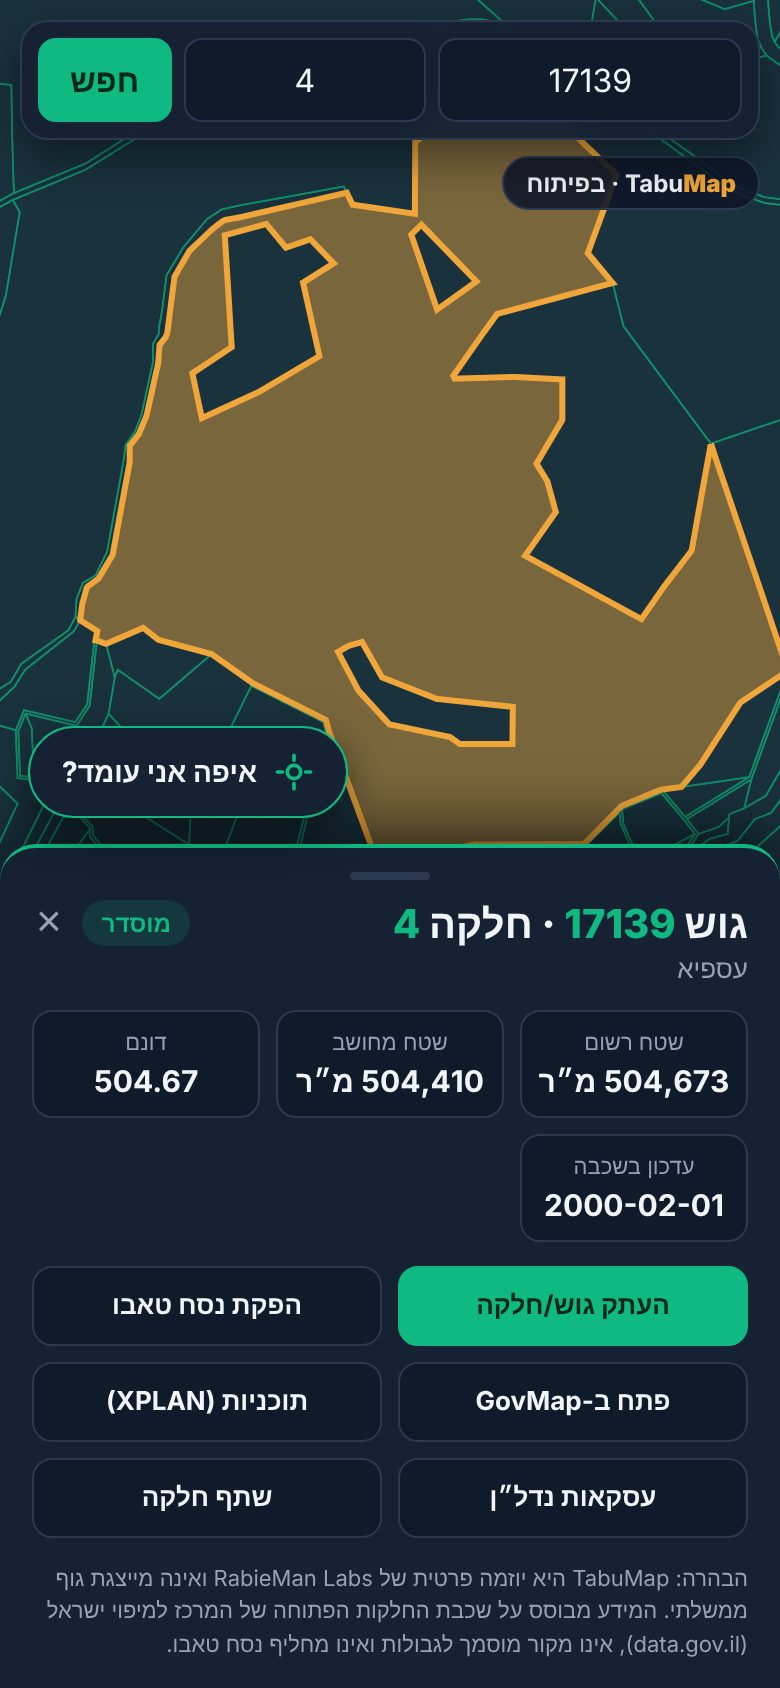
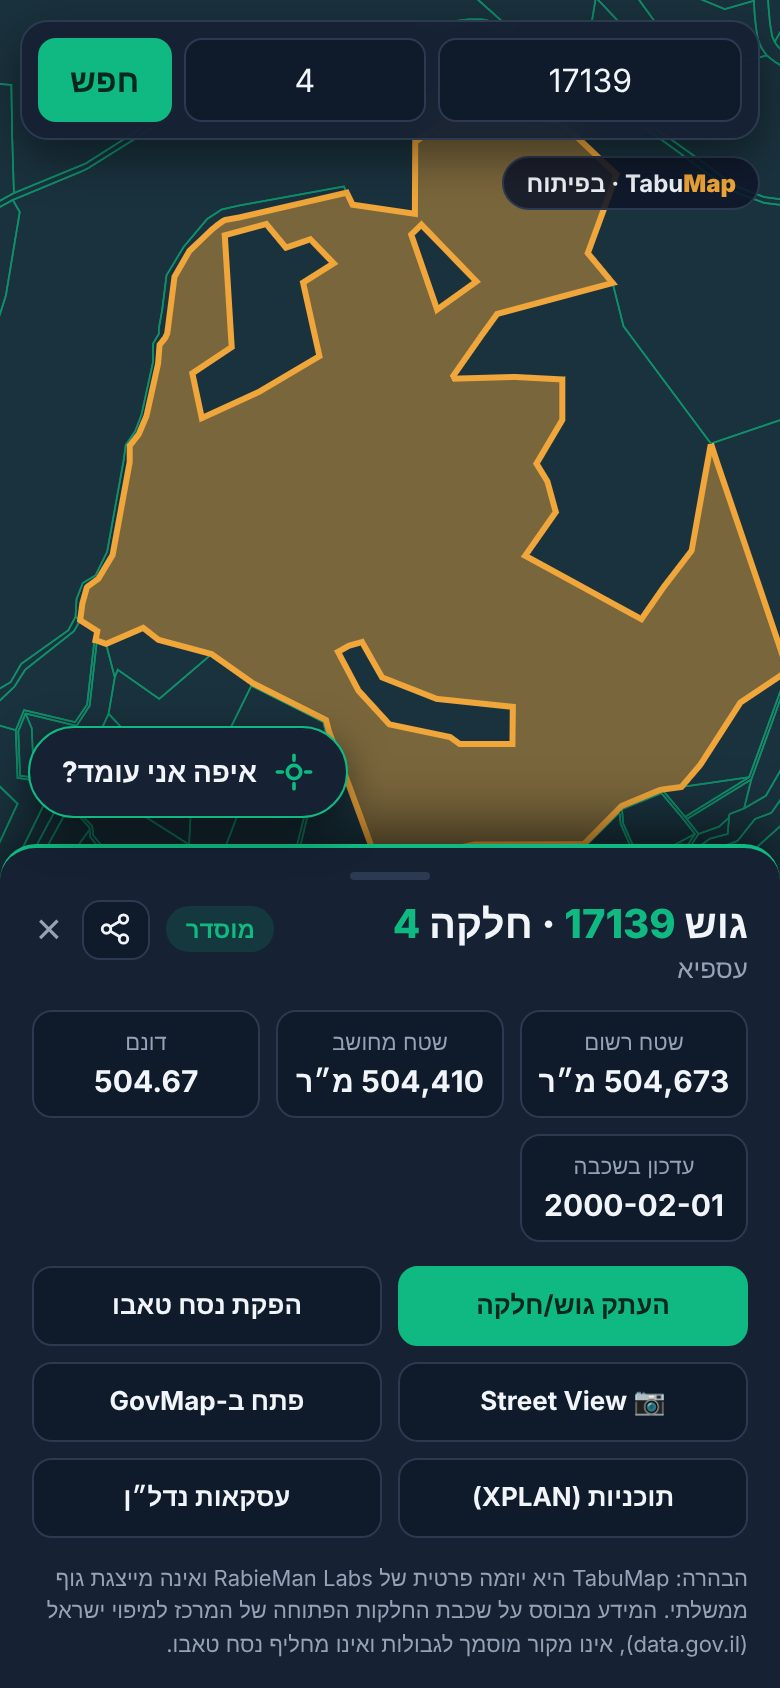
Landing: Street View feature card (he/en), privacy note on the Street View link, refreshed screenshots
Claude-Session: https://claude.ai/code/session_01VLMtTQgPnMJgmWQRScFxBP

diff --git a/privacy.html b/privacy.html
@@ -40,7 +40,7 @@ a{color:#9ccbff}small{color:#8b96a3}[dir=ltr]{text-align:left}
 <h2>מה נשמר במכשיר</h2>
 <p>העדפות (כמו שפה ותצוגת מפה) וחלקות ששמרתם נשמרות בזיכרון המקומי של המכשיר בלבד, ולא נשלחות אלינו. מחיקת האפליקציה או נתוני הדפדפן מוחקת אותן.</p>
 <h2>פניות לשירותים חיצוניים</h2>
-<p>נתוני החלקות נטענים מהאתר שלנו, המתארח ב-GitHub Pages. מפת הרקע נטענת מ-OpenFreeMap, ותצלומי הלוויין מ-Esri. כמו בכל אפליקציית מפות, השירותים האלה מקבלים את כתובת ה-IP ואת אזור המפה המוצג, בכפוף למדיניות שלהם. איננו מקבלים ואיננו שומרים את הפניות האלה. קישורים להפקת נסח טאבו, ל-GovMap, ל-XPLAN ולאתר הנדל״ן הממשלתי נפתחים באתרים שלהם.</p>
+<p>נתוני החלקות נטענים מהאתר שלנו, המתארח ב-GitHub Pages. מפת הרקע נטענת מ-OpenFreeMap, ותצלומי הלוויין מ-Esri. כמו בכל אפליקציית מפות, השירותים האלה מקבלים את כתובת ה-IP ואת אזור המפה המוצג, בכפוף למדיניות שלהם. איננו מקבלים ואיננו שומרים את הפניות האלה. קישורים להפקת נסח טאבו, ל-GovMap, ל-XPLAN, לאתר הנדל״ן הממשלתי ול-Google Street View נפתחים באתרים או באפליקציות שלהם. בלחיצה על Street View נשלחת לגוגל רק נקודת המפה שבחרתם, כדי לפתוח את התמונה.</p>
 <h2>תכונות עתידיות</h2>
 <p>לפני שיתווסף מפענח נסחי טאבו, המדיניות תעודכן ותפרט בדיוק מה נשלח לעיבוד, לאן, ומה לא נשמר.</p>
 <h2>שמירה ומחיקה של מידע</h2>
@@ -61,7 +61,7 @@ a{color:#9ccbff}small{color:#8b96a3}[dir=ltr]{text-align:left}
 <h2>What stays on your device</h2>
 <p>Preferences (such as language and map view) and parcels you save are stored only in the device's local storage and are never sent to us. Uninstalling the app or clearing browser data deletes them.</p>
 <h2>External services</h2>
-<p>Parcel data is loaded from our site, hosted on GitHub Pages. The background map comes from OpenFreeMap and satellite imagery from Esri. As with any map app, these services receive your IP address and the map area shown, under their own policies. We do not receive or store these requests. Links to the land registry extract service, GovMap, XPLAN and the government real-estate site open on those sites.</p>
+<p>Parcel data is loaded from our site, hosted on GitHub Pages. The background map comes from OpenFreeMap and satellite imagery from Esri. As with any map app, these services receive your IP address and the map area shown, under their own policies. We do not receive or store these requests. Links to the land registry extract service, GovMap, XPLAN, the government real-estate site and Google Street View open on those sites or apps. Tapping Street View sends Google only the map point you picked, to open the imagery.</p>
 <h2>Future features</h2>
 <p>Before a Tabu extract analyzer is added, this policy will be updated to state exactly what is sent for processing, where, and what is not kept.</p>
 <h2>Data retention and deletion</h2>

diff --git a/index.html b/index.html
@@ -55,6 +55,7 @@ footer{border-top:1px solid var(--line);margin-top:40px;padding-top:16px;color:v
  <div class="f"><span>🔎</span><b>חיפוש גוש וחלקה</b><p>מקלידים גוש, או גוש וחלקה, ומגיעים ישר לחלקה על המפה. חלקה שבוטלה או אוחדה מסומנת ככזו.</p></div>
  <div class="f"><span>📐</span><b>כרטיס חלקה</b><p>שטח רשום מול שטח מחושב מהמפה, דונמים, סטטוס הסדר ותאריך עדכון, עם קישורים להפקת נסח טאבו, ל-GovMap ולתוכניות.</p></div>
  <div class="f"><span>🛰</span><b>מפה ולוויין</b><p>גבולות החלקות על מפת רחובות או על תצלום לוויין, ושיתוף חלקה בקישור.</p></div>
+ <div class="f"><span>📷</span><b>Street View</b><p>כפתור בכרטיס החלקה פותח את Google Street View בדיוק בנקודה שבחרתם, כדי לראות את המגרש מהרחוב.</p></div>
  <div class="f soon"><span>🏗</span><b>תוכניות בנייה</b><p>התוכניות שחלות על כל חלקה, עם הסבר קצר על הייעוד.</p></div>
  <div class="f soon"><span>📄</span><b>מפענח נסח טאבו</b><p>משתפים את ה-PDF של הנסח ומקבלים סיכום ברור: בעלים, משכנתאות, הערות אזהרה ועיקולים.</p></div>
 </div>
@@ -68,6 +69,7 @@ footer{border-top:1px solid var(--line);margin-top:40px;padding-top:16px;color:v
   <div class="f"><span>🔎</span><b>Block &amp; parcel search</b><p>Type a block, or a block and parcel, and jump straight to it on the map. Cancelled or merged parcels are flagged.</p></div>
   <div class="f"><span>📐</span><b>Parcel card</b><p>Registered vs. measured area, dunams, settlement status and update date, with links to the land registry extract, GovMap and zoning plans.</p></div>
   <div class="f"><span>🛰</span><b>Map &amp; satellite</b><p>Parcel boundaries over a street map or satellite imagery, and share a parcel by link.</p></div>
+  <div class="f"><span>📷</span><b>Street View</b><p>A button on the parcel card opens Google Street View right at the point you picked, to see the lot from the street.</p></div>
   <div class="f soon"><span>🏗</span><b>Zoning plans</b><p>The plans that apply to each parcel, with a short explanation.</p></div>
   <div class="f soon"><span>📄</span><b>Tabu extract analyzer</b><p>Share the extract PDF and get a clear summary: owners, mortgages, caveats and liens.</p></div>
  </div>
